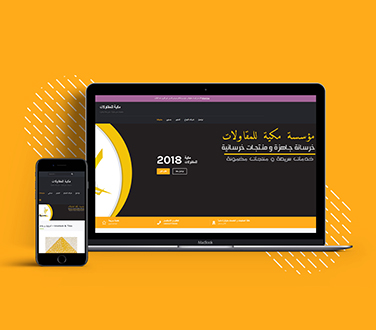
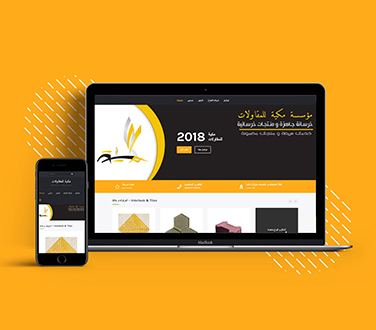
-

Changed region(s): [[0.234, 0.2727, 0.8484, 0.7273]]

diff --git a/index.html b/index.html
@@ -170,29 +170,32 @@
       <div class="container">
         <div class="section-header">
           <h3 class="title" data-title="My works">نماذج الأعمال</h3>
+          <p class="text">
+  اضغط على الصورة لزيارة الموقع
+                </p>
         </div>
 
           <div class="grid">
             <div class="grid-item webdev">
               <div class="gallery-image">
-                <img src="./img/portfolio/web1.jpg" alt="" />
+                <img src="./img/portfolio/altatweer-mockup.jpg" alt="" />
                 <div class="img-overlay">
-                  <div class="plus"></div>
+              
                   <div class="img-description">
-                    <h3>متجر على الووردبريس</h3>
-                    <a href="https://makkia.azurewebsites.net/">زيارة الموقع</a>
+                    <h3>موقع تعريفي لشركة هندسية</h3>
+                    <a href="https://altatweer-alhandsi.netlify.app/">زيارة الموقع</a>
                   </div>
                 </div>
               </div>
             </div>
             <div class="grid-item webdev">
               <div class="gallery-image">
-                <img src="./img/portfolio/web2.jpg" alt="" />
+                <img src="./img/portfolio/babylon-mockup.jpg" alt="" />
                 <div class="img-overlay">
-                  <div class="plus"></div>
+             
                   <div class="img-description">
-                    <h3>موقع شخصي</h3>
-                    <a href="http://samar-ghilan.azurewebsites.net/">زيارة الموقع</a>
+                    <h3>  Front-end for Restaurant</h3>
+                    <a href="https://babylon-fastfood.netlify.app/">زيارة الموقع</a>
                   </div>
                 </div>
               </div>
@@ -201,7 +204,7 @@
               <div class="gallery-image">
                 <img src="./img/portfolio/web3.jpg" alt="" />
                 <div class="img-overlay">
-                  <a href="https://samar-ghilan.netlify.app/"> <div class="plus"></div></a>
+                 
                   <div class="img-description">
                     <h3>موقع شخصي</h3>
                     <a href="https://samar-ghilan.netlify.app/">زيارة الموقع</a>
@@ -214,22 +217,35 @@
                 <img src="./img/portfolio/web4.jpg" alt="" />
                 <a href="https://arch-youssef.azurewebsites.net/"> 
                    <div class="img-overlay">
-                 <div class="plus"></div>
+                 
                   <div class="img-description">
-                    <h3>موقع شخصي</h3>
+                    <h3>موقع شخصي على الووردبريس</h3>
                     <a href="https://arch-youssef.azurewebsites.net/">زيارة الموقع</a>
                   </div>
                 </div></a>
               </div>
             </div>
+       
             <div class="grid-item webdev">
               <div class="gallery-image">
-                <img src="./img/portfolio/web5.jpg" alt="" />
+                <img src="./img/portfolio/web1.jpg" alt="" />
                 <div class="img-overlay">
-                  <div class="plus"></div>
+                
                   <div class="img-description">
-                    <h3>موقع شخصي</h3>
-                    <a href="https://ymd.netlify.app/">زيارة الموقع</a>
+                    <h3>متجر الكتروني على الووردبريس</h3>
+                    <a href="https://makkia.azurewebsites.net/">زيارة الموقع</a>
+                  </div>
+                </div>
+              </div>
+            </div>
+            <div class="grid-item webdev">
+              <div class="gallery-image">
+                <img src="./img/portfolio/web2.jpg" alt="" />
+                <div class="img-overlay">
+                  
+                  <div class="img-description">
+                    <h3>موقع شخصي على الووردبريس</h3>
+                    <a href="http://samar-ghilan.azurewebsites.net/">زيارة الموقع</a>
                   </div>
                 </div>
               </div>
